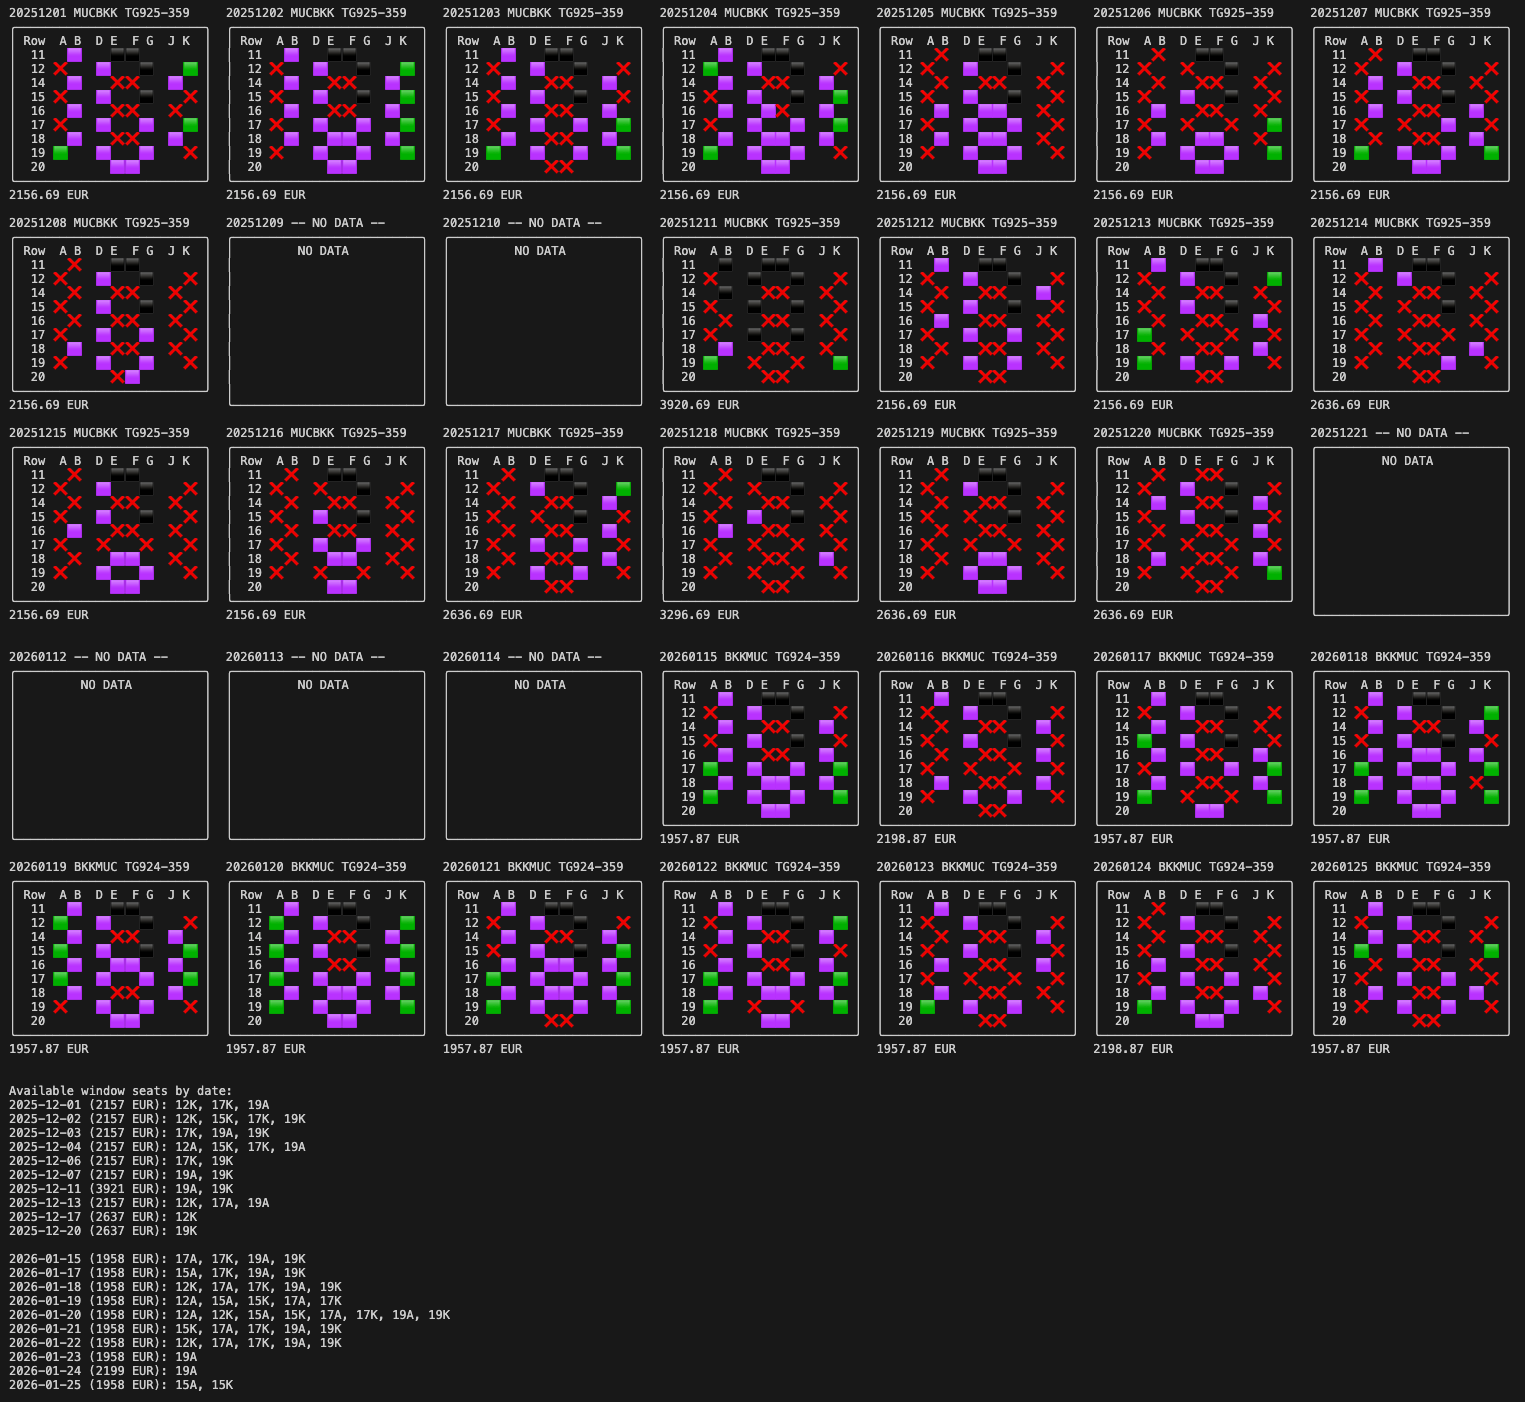
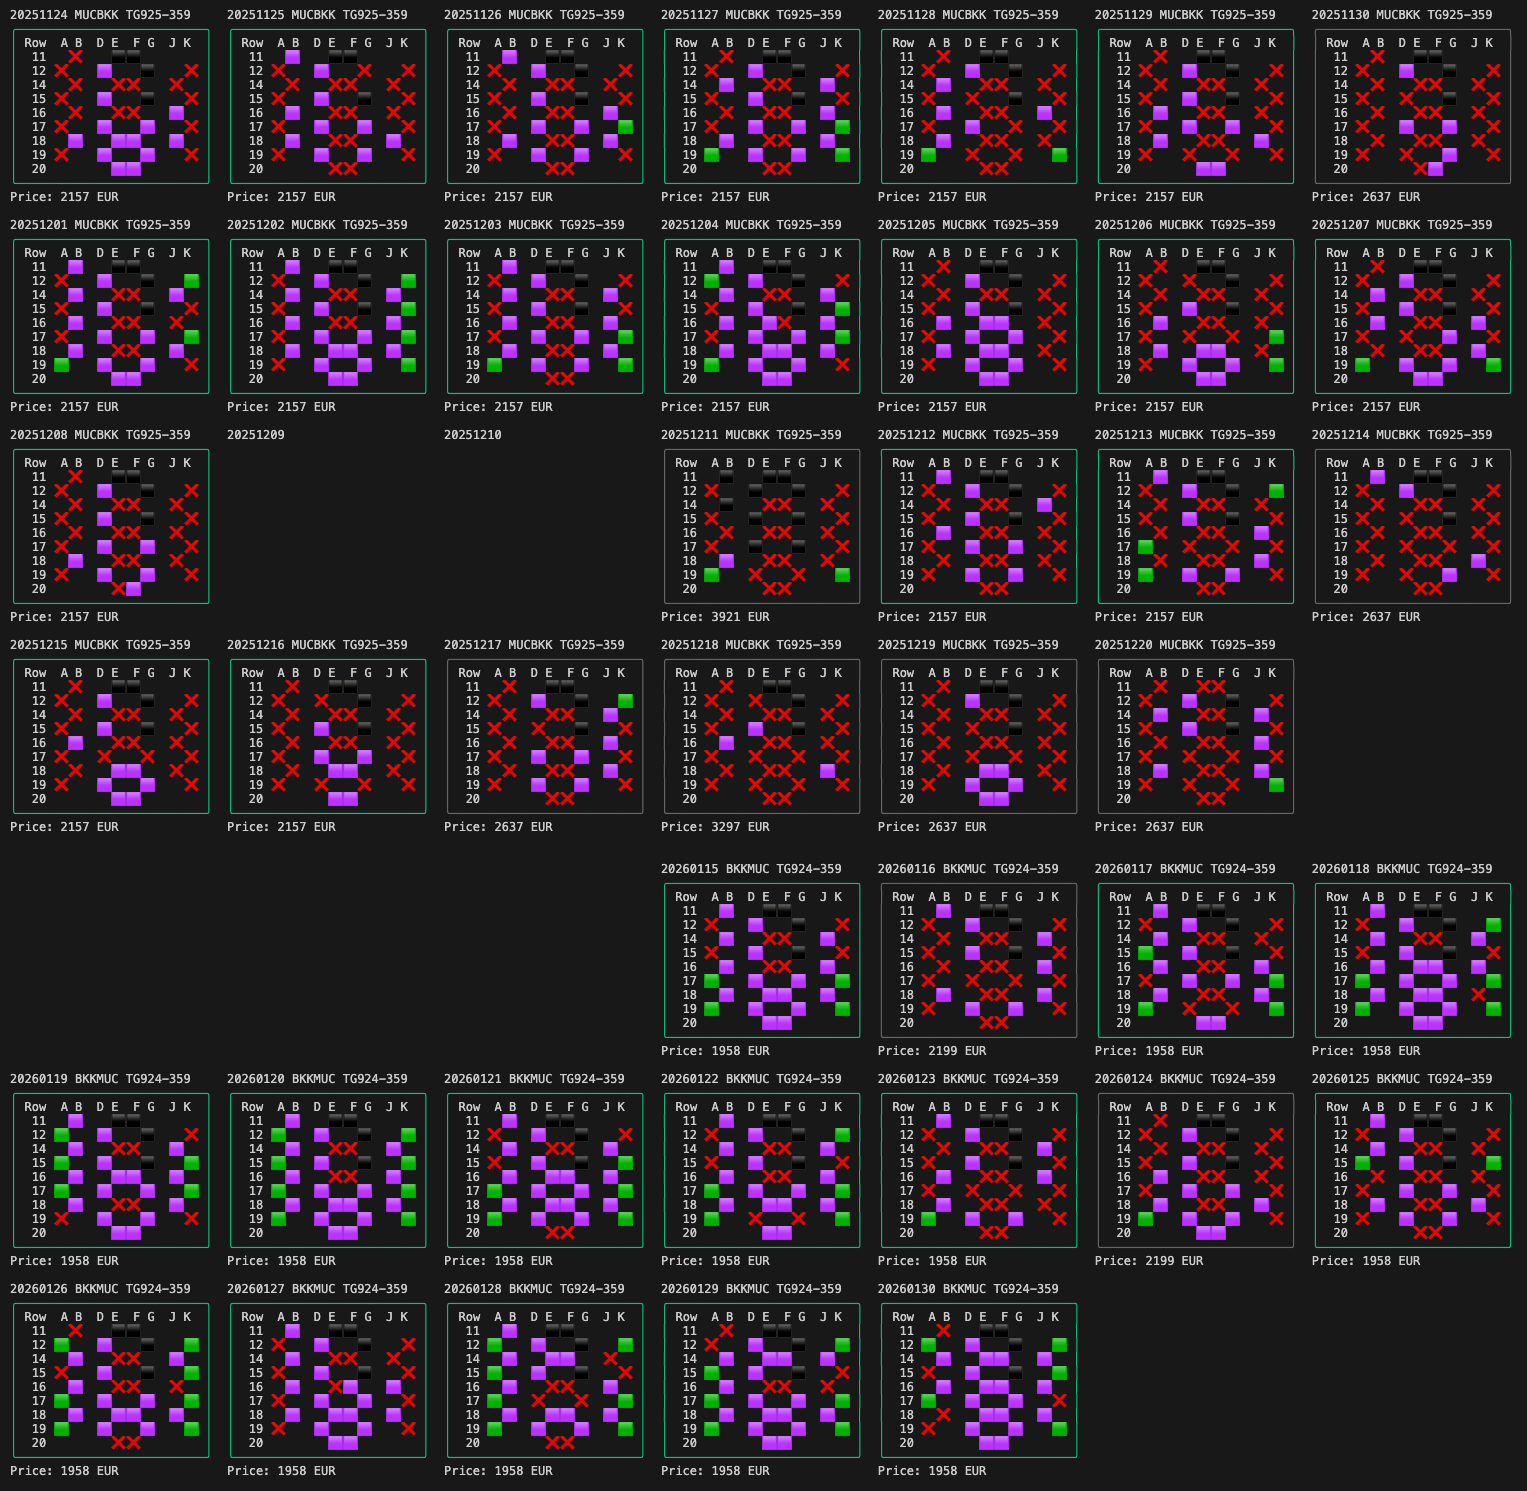
update docs

Changed region(s): [[0.0, 0.0, 1.0, 1.0], [0.9862, 0.3987, 1.0, 0.4294]]

diff --git a/README.md b/README.md
@@ -4,14 +4,24 @@ CLI utility for browsing Amadeus seat-map availability across a set of long-haul
 
 ## Example output
 
-![Example output: weekly grid of ASCII seat maps and window-seat ledger](docs/seatmaps.png)
+![Example output: weekly grid of ASCII seat maps](docs/seatmaps.png)
 
-_Figure: Example terminal output showing the weekly ASCII seat maps (Mon–Sun) and the date-sorted ledger of available window seats._
+_Figure: Example terminal output showing the weekly ASCII seat maps (Mon–Sun)._
+
+![Example output: window-seat ledger](docs/window_seats.png)
+
+_Figure: Example terminal output showing the date-sorted ledger of available window seats including calendar heatmap for the price._
+
+![Example output: price heatmaps](docs/price_heatmaps.png)
+
+_Figure: Example terminal output showing the price heatmaps for all flight combinations - one for windows seats and one for all._
 
 ## Highlights
 - Builds ASCII seat maps with wide-character awareness so layouts stay aligned even when using emoji markers.
+- Highlights the lowest fare per route with a green border so deals stand out immediately.
 - Supports multiple execution modes: live API calls, JSON fixtures, or pre-built pickle snapshots.
 - Prints a week-by-week grid plus per-day window-seat summaries with optional pricing pulled from flight offers.
+- Generates calendar heatmaps (per route and round-trip) to make fare trends obvious when scanning many dates.
 
 ## Requirements
 - Python 3.11+ (tested locally with 3.11)
@@ -50,16 +60,39 @@ Set the `environment` constant near the top of `flight_search.py` to pick a data
 
 When running against `test` or `production`, the script iterates over the configured `travel_windows` and caches every retrieved seat map into `test/seatmaps.pkl` for future offline use.
 
+## Travel windows & filters
+Define the routes and date ranges you care about by editing the `travel_windows` list near the top of `flight_search.py`:
+
+```python
+travel_windows = [
+    {
+        "origin": "MUC",
+        "destination": "BKK",
+        "start_date": "2025-11-24",
+        "end_date": "2025-12-20",
+    },
+    # add more windows as needed
+]
+```
+
+Each window is inclusive, so the script requests seat maps for every day in the range. The first two windows also drive the combined round-trip heatmaps (outbound vs. return). By default the fetch logic targets non-stop business-class flights on Thai Airways (`included_airline_codes='TG'`); adjust those arguments inside `SeatMaps.fetch` if you need different carriers, cabins, or connection rules.
+
 ## Usage
 ```bash
 python flight_search.py
 ```
 
 Typical output is:
-- A blank spacer, followed by a weekly grid (Monday–Sunday) of ASCII seat maps. Missing days show a `NO DATA` placeholder.
-- A date-sorted ledger of available window seats that includes rounded prices when available.
+- A blank spacer, followed by a weekly grid (Monday–Sunday) of ASCII seat maps. Missing days show a `NO DATA` placeholder and the cheapest fare on each route is highlighted.
+- A route-by-route window-seat ledger that includes rounded prices, per-date availability notes, and a small calendar heatmap to hint at relative fares.
+- (Optional) Two round-trip matrices that add outbound + return fares together—one based on window-seat pricing and one using any available fare—whenever at least two travel windows are defined.
 
 Adjust `travel_windows` in `flight_search.py` if you need different routes or date ranges. The helper `iter_dates` already walks every day between the `start_date` and `end_date`.
+
+## Output details
+- **Weekly seat-map grid** – One block per day, grouped by week. Missing data shows a `NO DATA` placeholder, and the absolute lowest fare per route gets a green border plus a rounded price label at the bottom of the block.
+- **Route availability boxes** – After the grid, every route receives a bordered box that lists the available window seats per date, prefixed with a relative fare symbol and paired with a mini calendar heatmap for additional visual context.
+- **Round-trip price heatmaps** – If you provide at least two travel windows (outbound + inbound), the script prints two combined matrices: one based on window-seat fares only and another that considers any price returned by the offer search.
 
 ## Fixtures
 `test/` contains reproducible inputs:
@@ -68,6 +101,9 @@ Adjust `travel_windows` in `flight_search.py` if you need different routes or da
 - `seatmaps.pkl` – pickled list of `SeatMap` instances captured from earlier runs.
 
 Feel free to swap these with real captures when building demos or regression tests.
+
+## Refreshing cached seat maps
+Whenever you run in `test` or `production` mode, newly fetched seat maps automatically overwrite `test/seatmaps.pkl`. This keeps the offline (`e2e-pickle`) mode in sync with your latest captures. Delete the file or run the script again to regenerate it whenever you want a fresh snapshot.
 
 ## Contributing
 No special tooling is required beyond standard linting/formatting for Python scripts. Please keep fixtures anonymized and avoid committing sensitive traveler data.
